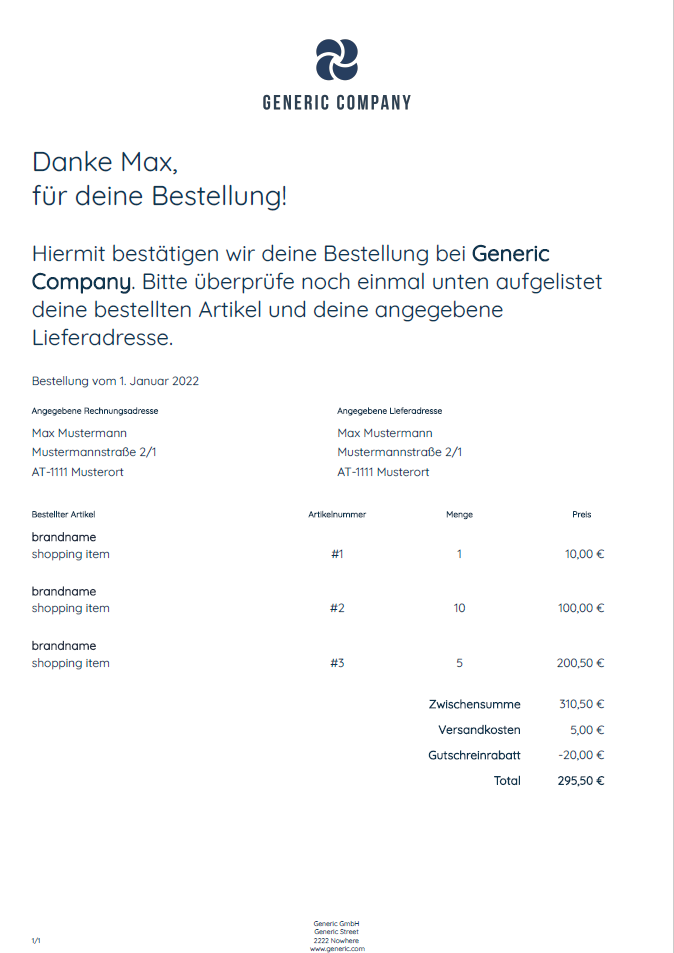
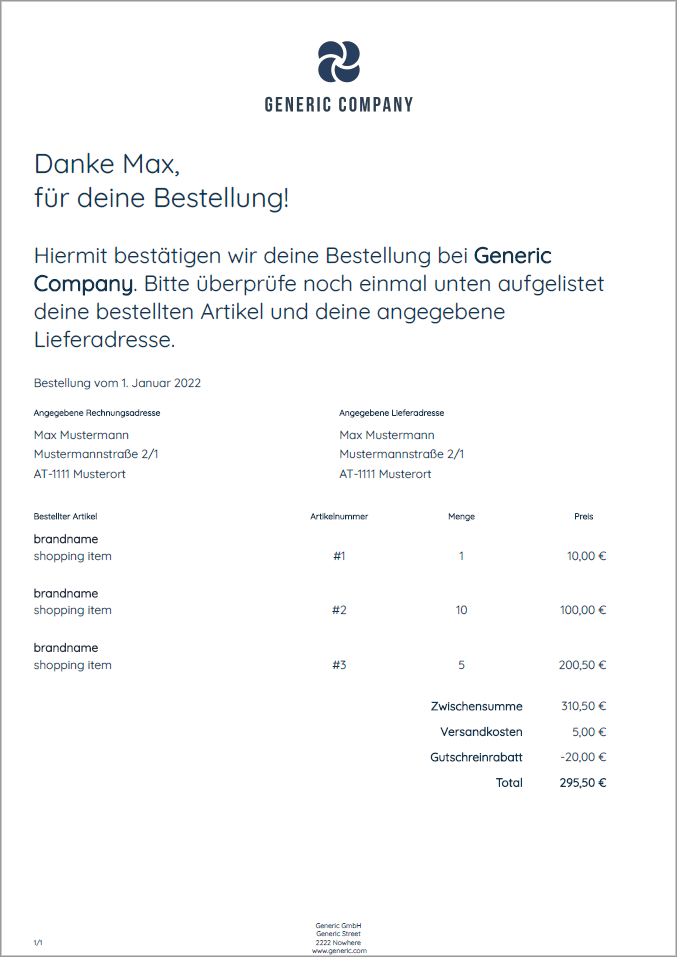
more readme

diff --git a/README.md b/README.md
@@ -7,4 +7,5 @@ Generates an invoice from provided json data via post request.
 ```sh
 curl -X POST -H 'Content-Type: application/json' -d @./test/request.json http://localhost:3002 --output ./test/result/result.pdf
 ```
-![Preview](./static/img/preview.png)
+## Preview
+<img align="center"  src="./static/img/preview.png">
